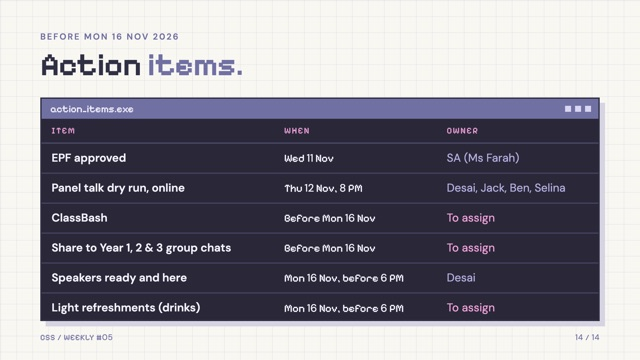
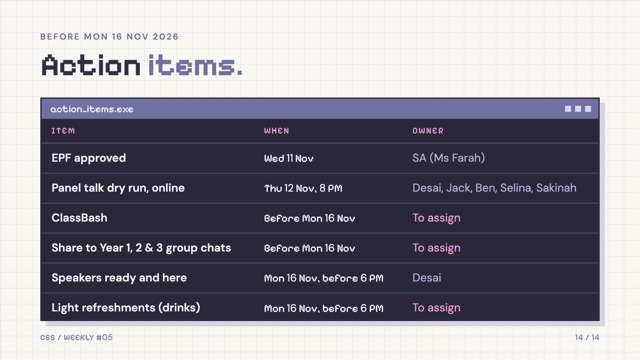
Weekly 05: add Sakinah to the dry run call

diff --git a/weeklies/05-panel-talk/index.html b/weeklies/05-panel-talk/index.html
@@ -138,10 +138,10 @@
     .fact .label{color:var(--ink)}
     .who{position:absolute;left:120px;right:120px;top:612px}
     .who .label{margin-bottom:22px}
-    .who-row{display:grid;grid-template-columns:repeat(4,1fr);gap:36px}
-    .person-chip{display:flex;align-items:center;gap:26px;padding:20px 26px}
-    .person-chip .tile{width:96px;height:96px;font-size:60px;box-shadow:6px 6px 0 var(--shadow)}
-    .person-chip .nm{font:600 48px DM,Arial,sans-serif;line-height:1;letter-spacing:-.5px}
+    .who-row{display:grid;grid-template-columns:repeat(5,1fr);gap:24px}
+    .person-chip{display:flex;align-items:center;gap:18px;padding:20px 18px}
+    .person-chip .tile{width:80px;height:80px;font-size:52px;box-shadow:6px 6px 0 var(--shadow)}
+    .person-chip .nm{font:600 40px DM,Arial,sans-serif;line-height:1;letter-spacing:-.5px}
     .dry-note{position:absolute;left:120px;right:120px;top:868px;font:400 34px/1.3 ClearDigits,Pixelify,monospace}
     .dry-note::before{content:"> ";color:var(--purple);font-weight:600}
 
@@ -338,6 +338,7 @@
           <div class="card person-chip pop" style="--d:6"><div class="tile" style="--c:var(--pink)" aria-hidden="true">J</div><span class="nm">Jack</span></div>
           <div class="card person-chip pop" style="--d:7"><div class="tile" style="--c:var(--lavender)" aria-hidden="true">B</div><span class="nm">Ben</span></div>
           <div class="card person-chip pop" style="--d:8"><div class="tile" style="--c:#fbe7a6" aria-hidden="true">S</div><span class="nm">Selina</span></div>
+          <div class="card person-chip pop" style="--d:9"><div class="tile" style="--c:#f5c9a8" aria-hidden="true">S</div><span class="nm">Sakinah</span></div>
         </div>
       </div>
       <p class="dry-note rise" style="--d:8">Rehearse the whole night: the schedule and the nine panel questions.</p>
@@ -457,7 +458,7 @@
           <thead><tr><th>ITEM</th><th>WHEN</th><th>OWNER</th></tr></thead>
           <tbody>
             <tr><td class="act">EPF approved</td><td class="time">Wed 11 Nov</td><td class="pic">SA (Ms Farah)</td></tr>
-            <tr><td class="act">Panel talk dry run, online</td><td class="time">Thu 12 Nov, 8 PM</td><td class="pic">Desai, Jack, Ben, Selina</td></tr>
+            <tr><td class="act">Panel talk dry run, online</td><td class="time">Thu 12 Nov, 8 PM</td><td class="pic">Desai, Jack, Ben, Selina, Sakinah</td></tr>
             <tr><td class="act">ClassBash</td><td class="time">Before Mon 16 Nov</td><td class="tbd">To assign</td></tr>
             <tr><td class="act">Share to Year 1, 2 &amp; 3 group chats</td><td class="time">Before Mon 16 Nov</td><td class="tbd">To assign</td></tr>
             <tr><td class="act">Speakers ready and here</td><td class="time">Mon 16 Nov, before 6 PM</td><td class="pic">Desai</td></tr>
